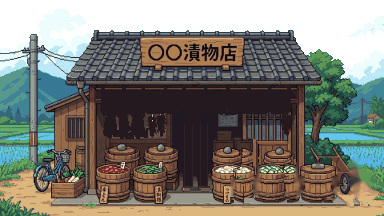
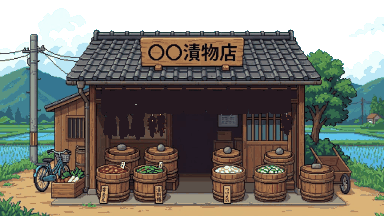
背景を人のいない参考画像からトレースし直す（補修処理を削除）
Claude-Session: https://claude.ai/code/session_01Tyzz2tWvGRUYTNdsaNpfYf

diff --git a/tsukemono/assets/scene.js b/tsukemono/assets/scene.js
@@ -1,4 +1,5 @@
 // 店先の配置（384×216 のドット座標）。絵は参考画像をトレースしたもの（assets/img/、tools/trace.py）。
+// 背景は人のいない絵、人物は人のいる絵から切り抜いたもの。
 import { TRACE } from './trace.js';
 
 const [W, H] = TRACE.size;
@@ -16,8 +17,8 @@ export const SCENE = {
   labelY: 199,
   // 吊るし物。panels = 別々に揺れる区切り（画像内のx範囲）
   hanging: [
-    { img: 'hang_noren', ...pos('noren'), panels: [[0, 44], [44, 85], [85, 109], [109, 134], [134, 158], [158, 194]], ms: [1000, 1200, 900, 1300, 1100, 950] },
-    { img: 'hang_daikon', ...pos('daikon'), panels: [[0, 15], [15, 29], [29, 46]], ms: [800, 1000, 1150] },
+    { img: 'hang_noren', ...pos('noren'), panels: [[0, 40], [40, 75], [75, 107], [107, 130], [130, 151], [151, 181], [181, 195]], ms: [1000, 1200, 900, 1300, 1100, 950, 1150] },
+    { img: 'hang_daikon', ...pos('daikon'), panels: [[0, 17], [17, 31], [31, 48]], ms: [800, 1000, 1150] },
     { img: 'hang_chili_l', ...pos('chili_l'), panels: [[0, 12], [12, 25]], ms: [900, 1250] },
     { img: 'hang_chili_r', ...pos('chili_r'), panels: [[0, 17]], ms: [1050] },
   ],

diff --git a/tsukemono/assets/trace.js b/tsukemono/assets/trace.js
@@ -1,2 +1,2 @@
 // tools/trace.py が書き出す。手で編集しない（トレースし直すと上書きされる）。
-export const TRACE = {"size": [384, 216], "chars": {"keeper": [178, 115, 33, 76], "woman": [237, 139, 23, 73], "kid1": [284, 159, 19, 53], "kid2": [317, 158, 21, 54], "kid3": [350, 158, 24, 54], "basket": [231, 179, 17, 17]}, "clouds": [[120, 12], [220, 5]], "hanging": {"noren": [100, 86], "daikon": [102, 112], "chili_l": [147, 111], "chili_r": [278, 111]}, "slots": [{"x": 98, "y": 164, "w": 35, "h": 10}, {"x": 136, "y": 163, "w": 35, "h": 10}, {"x": 214, "y": 164, "w": 39, "h": 10}]};
+export const TRACE = {"size": [384, 216], "chars": {"keeper": [178, 115, 33, 76], "woman": [237, 139, 23, 73], "kid1": [284, 159, 19, 53], "kid2": [317, 158, 21, 54], "kid3": [350, 158, 24, 54], "basket": [231, 179, 17, 17]}, "clouds": [[120, 11], [217, 5]], "hanging": {"noren": [97, 86], "daikon": [99, 111], "chili_l": [147, 111], "chili_r": [278, 111]}, "slots": [{"x": 99, "y": 161, "w": 34, "h": 10}, {"x": 132, "y": 162, "w": 34, "h": 10}, {"x": 212, "y": 163, "w": 37, "h": 10}]};

diff --git a/tsukemono/assets/characters.js b/tsukemono/assets/characters.js
@@ -3,7 +3,7 @@
 //   headY: ここから上が頭（見る・しゃべるで動かす） / hand: かご・漬物を持つ位置
 // 絵は左向き（店のほうを向いている）。右へ帰るときは左右反転する。
 export const BODIES = {
-  keeper: { img: 'char_keeper', hipY: 58, legX: 17, headY: 22, handL: [-1, 36], handR: [31, 36] },
+  keeper: { img: 'char_keeper', hipY: 58, legX: 17, headY: 22, hand: [2, 36], handL: [-1, 36], handR: [31, 36] },
   woman: { img: 'char_woman', hipY: 60, legX: 12, headY: 20, hand: [-6, 36] },
   kid1: { img: 'char_kid1', hipY: 38, legX: 9, headY: 16, hand: [-4, 22] },
   kid2: { img: 'char_kid2', hipY: 38, legX: 10, headY: 15, hand: [-4, 22] },

diff --git a/tsukemono/tools/trace.py b/tsukemono/tools/trace.py
@@ -1,4 +1,6 @@
-"""参考画像（assets/reference/shop_reference.jpg）をドット絵にトレースする。
+"""参考画像をドット絵にトレースする。
+  背景: assets/reference/shop_background.jpg（人のいない店先）
+  人物: assets/reference/shop_reference.jpg（店主・客がいる店先）から切り抜く
 
   python3 tools/trace.py      # 必要: pip install opencv-python-headless pillow numpy
 
@@ -8,7 +10,7 @@
   char_*.png          人物（店主・客）。動きは JS 側でコマを作る
   basket.png          かご
 
-手順: 縮小(384×216) → 128色に減色 → GrabCut で人物を切り抜く → 背景を補修 → 空を抜く。
+手順: 縮小(384×216) → 128色に減色 → GrabCut で人物を切り抜く → 吊るし物・樽の口・雲を抜く → 空を抜く。
 人物の切り抜きのヒント（確実に人物/背景の場所）は、下の HINTS に 384×216 の座標で書く。
 """
 import os
@@ -18,6 +20,7 @@ from PIL import Image
 
 ROOT = os.path.join(os.path.dirname(__file__), '..')
 SRC = os.path.join(ROOT, 'assets/reference/shop_reference.jpg')
+BG_SRC = os.path.join(ROOT, 'assets/reference/shop_background.jpg')
 OUT = os.path.join(ROOT, 'assets/img')
 W, H = 384, 216
 
@@ -112,70 +115,15 @@ def save_sprite(name, mask):
 os.makedirs(OUT, exist_ok=True)
 placed = {n: save_sprite(n, m) for n, m in masks.items()}
 
-# ---------------------------------------------------------------- 背景の補修
-hole = np.zeros((H, W), bool)
-for n in ('keeper', 'woman', 'kid1', 'kid2', 'kid3', 'basket'):
-    hole |= cv2.dilate(masks[n].astype(np.uint8), np.ones((3, 3), np.uint8)) > 0
-bg = base.copy()
-
-
-def mirror(x0, x1, y0, y1, cx):
-    """樽などの左右対称なものを、反対側から写して埋める。"""
-    for y in range(y0, y1):
-        for x in range(x0, x1):
-            sx = int(round(2 * cx - x))
-            if hole[y, x] and 0 <= sx < W and not hole[y, sx]:
-                bg[y, x] = bg[y, sx]
-                hole[y, x] = False
-
-
-def copy(x0, y0, x1, y1, dx, dy):
-    """別の場所から写す。"""
-    for y in range(y0, y1):
-        for x in range(x0, x1):
-            if hole[y, x] and not hole[y + dy, x + dx]:
-                bg[y, x] = bg[y + dy, x + dx]
-                hole[y, x] = False
-
-
-def mark(x0, y0, x1, y1):
-    """影なども埋め直す対象にする。"""
-    hole[y0:y1, x0:x1] = True
-
-
-def paste(x0, y0, x1, y1, dx, dy):
-    """埋めた後でも上書きして写す。"""
-    bg[y0:y1, x0:x1] = bg[y0 + dy:y1 + dy, x0 + dx:x1 + dx].copy()
-    hole[y0:y1, x0:x1] = False
-
-
-def band(x0, x1, rows, lines=None):
-    """横帯の色で埋める（店の奥の壁・土間など）。rows = [[y0, y1, [r,g,b]], ...]"""
-    for y0, y1, col in rows:
-        for y in range(y0, y1):
-            for x in range(x0, x1):
-                if hole[y, x]:
-                    bg[y, x] = col
-                    hole[y, x] = False
-    for lx, ly0, ly1, col in (lines or []):
-        bg[ly0:ly1, lx] = col
-
-
-OPS = {'mirror': mirror, 'copy': copy, 'mark': mark, 'paste': paste, 'band': band}
-for op in __import__('json').load(open(os.path.join(os.path.dirname(__file__), 'patches.json'))):
-    OPS[op[0]](*op[1:])
-
-# 残りは周りから埋めて、パレットの色に戻す
-rest = hole.astype(np.uint8) * 255
-filled = cv2.inpaint(cv2.cvtColor(bg, cv2.COLOR_RGB2BGR), rest, 3, cv2.INPAINT_TELEA)
-filled = cv2.cvtColor(filled, cv2.COLOR_BGR2RGB)
-bg[hole] = snap(filled[hole].reshape(-1, 1, 3)).reshape(-1, 3)
+# ---------------------------------------------------------------- 背景（人のいない絵から）
+bg_rgb = Image.open(BG_SRC).convert('RGB').resize((W, H), Image.BOX)
+bg = np.asarray(bg_rgb.quantize(colors=128, method=Image.Quantize.MEDIANCUT, dither=Image.Dither.NONE).convert('RGB')).copy()
 
 # ---------------------------------------------------------------- 吊るし物（揺らすので背景から抜く）
 DARK = np.array([37, 25, 32])
 HANGING = {  # 名前: (x0, y0, x1, y1, 判定)  判定=その画素が吊るし物か
-    'noren': (100, 86, 294, 115, lambda r, g, b: (b > r + 8 and b > 70) or (r > 150 and g > 150 and b > 150)),
-    'daikon': (102, 112, 148, 139, lambda r, g, b: (r + g + b) > 260 or (g > r + 15 and g > 70)),
+    'noren': (97, 86, 292, 115, lambda r, g, b: (b > r + 8 and b > 70) or (r > 150 and g > 150 and b > 150)),
+    'daikon': (99, 111, 147, 140, lambda r, g, b: (r + g + b) > 260 or (g > r + 15 and g > 70)),
     'chili_l': (147, 111, 172, 139, lambda r, g, b: r > g + 55),
     'chili_r': (278, 111, 295, 141, lambda r, g, b: r > g + 55),
 }
@@ -193,7 +141,7 @@ for name, (x0, y0, x1, y1, test) in HANGING.items():
     hang_meta[name] = (x0, y0)
 
 # ---------------------------------------------------------------- 売り場の樽（3つ）の中身: 空/白菜/きゅうり
-TOPS = {'tomato': (98, 164, 133, 174), 'kyuri': (136, 163, 171, 173), 'hakusai': (214, 164, 253, 174)}
+TOPS = {'tomato': (99, 161, 133, 171), 'kyuri': (132, 162, 166, 172), 'hakusai': (212, 163, 249, 173)}
 SLOTS = ['tomato', 'kyuri', 'hakusai']  # 樽1〜3 に使う樽
 
 
@@ -259,7 +207,7 @@ while stack:
     stack += [(x + 1, y), (x - 1, y), (x, y + 1), (x, y - 1)]
 
 # 浮いている雲（全体が空に囲まれているもの）を抜き出して流す
-CLOUDS = json_clouds = __import__('json').load(open(os.path.join(os.path.dirname(__file__), 'clouds.json')))
+CLOUDS = [(120, 11, 143, 22), (217, 5, 297, 28)]
 alpha = np.where(sky, 0, 255).astype(np.uint8)
 cloud_meta = []
 for i, (x0, y0, x1, y1) in enumerate(CLOUDS):

diff --git a/tsukemono/README.md b/tsukemono/README.md
@@ -29,7 +29,7 @@ npm run survey     # 条件を変えた結果の一覧を端末に表示
 
 ## 絵（参考画像のトレース）
 
-`assets/reference/shop_reference.jpg` をトレースして作る。手順は `tools/trace.py` にまとめてあり、何度でもやり直せる。
+背景は `assets/reference/shop_background.jpg`（人のいない店先）、人物は `assets/reference/shop_reference.jpg`（店主・客がいる店先）からトレースする。手順は `tools/trace.py` にまとめてあり、何度でもやり直せる。
 
 ```
 pip install opencv-python-headless pillow numpy
@@ -38,11 +38,11 @@ python3 tools/trace.py
 
 1. 384×216 に縮小し、128色に減色（元絵のドットの大きさに近い）。
 2. 人物（店主・女性・子ども3人）とかごを GrabCut で切り抜き、それぞれ別の絵にする（人物は人物ごとに24色で減色）。
-3. 人物を抜いた跡を補修（`tools/patches.json`: 樽は左右反転で写す、地面は横から写す、店の奥は帯で塗る）。
+3. 背景は人のいない絵をそのまま縮小・減色（人物を抜いた跡の補修は不要）。
 4. のれん・大根・唐辛子を抜き出して、揺らせるようにする。浮いている雲も抜き出して流す。
 5. 売り場の樽3つの口を、空／白菜／きゅうりの3通りに作る。空は透明にする（時間帯・天気で空を描き替える）。
 
-GUIのドット絵エディタはこの環境では使えないため、上の手順をスクリプトで行い、座標の指定（`HINTS` `FORCE` `patches.json`）で手直しした。
+GUIのドット絵エディタはこの環境では使えないため、上の手順をスクリプトで行い、座標の指定（`HINTS` `FORCE`）で手直しした。
 
 動き: 1枚の絵を「頭・胴・左脚・右脚」に分け、1〜2ドットずらしたコマ（2〜4コマ）で動かす（`assets/animations.js`）。
 季節: 夏の昼の絵を基準に、草木・田んぼ・地面・屋根の色を置き換える（`assets/themes.js`）。時間帯は色のかけ合わせ。
